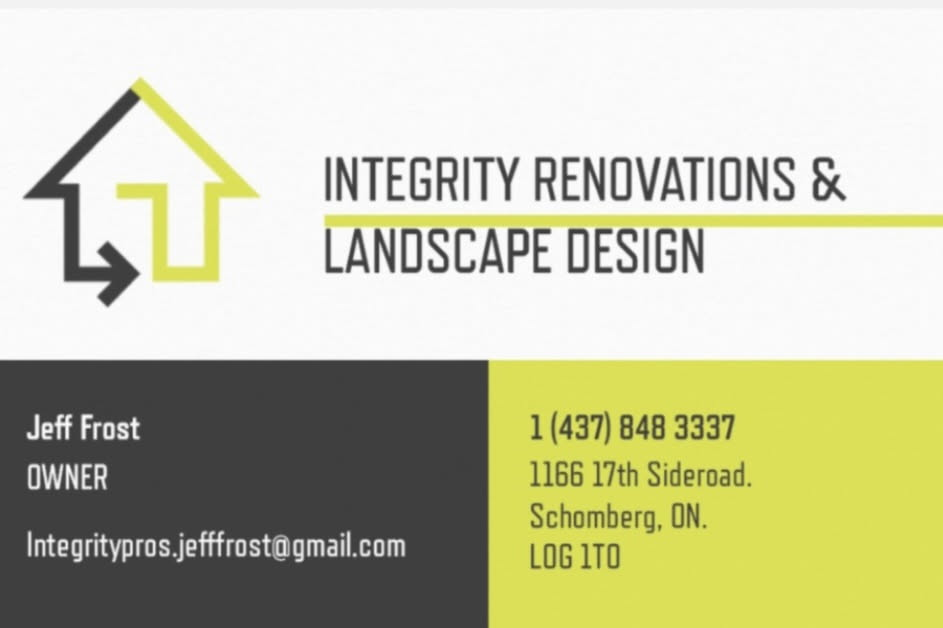
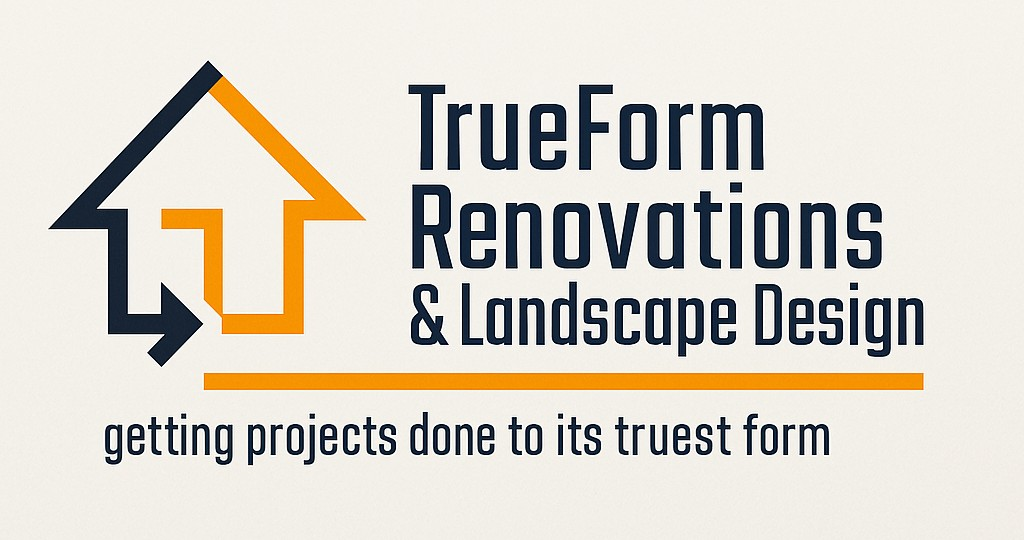
rebranding 1

diff --git a/css/styles_BAK.css b/css/styles_BAK.css
@@ -8,15 +8,13 @@
 body {
   font-family: 'Segoe UI', Tahoma, Geneva, Verdana, sans-serif;
   line-height: 1.6;
-  color: #2e2e33;
-  background: #ffffff;
+  color: #333;
+  background: #f9f9f9;
 }
 
 header {
-  background: #2e2e33;
-  color: #ffffff;
+  background: #fff;
   box-shadow: 0 2px 5px rgba(0,0,0,0.1);
-  padding: 1rem;
 }
 
 nav ul {
@@ -24,18 +22,17 @@ nav ul {
   list-style: none;
   justify-content: center;
   padding: 1rem 0;
-  background: #f29c1f;
 }
 
 nav ul li a {
   text-decoration: none;
-  color: #ffffff;
+  color: #333;
   margin: 0 1.2rem;
-  font-weight: 600;
+  font-weight: 500;
 }
 
 nav ul li a:hover {
-  color: #ffeac0;
+  color: #006633;
 }
 
 .banner-wrapper {
@@ -63,7 +60,7 @@ nav ul li a:hover {
 }
 
 .banner-controls button {
-  background: rgba(0, 0, 0, 0.5);
+  background: rgba(0,0,0,0.5);
   color: white;
   border: none;
   padding: 0.5rem 1rem;
@@ -82,34 +79,28 @@ main {
 }
 
 h1, h2 {
-  color: #f29c1f;
+  color: #1e432e;
   margin-bottom: 1rem;
 }
 
 .cta-buttons .button,
 .button {
-  background: #f29c1f;
-  color: #ffffff;
+  background: #1e432e;
+  color: #fff;
   padding: 0.75rem 1.5rem;
   text-decoration: none;
   display: inline-block;
   border-radius: 4px;
   font-weight: bold;
-  transition: background 0.3s;
-}
-
-.button:hover {
-  background: #d48806;
 }
 
 .button.secondary {
-  background: #ffffff;
-  color: #f29c1f;
-  border: 2px solid #f29c1f;
+  background: #e6e6e6;
+  color: #1e432e;
 }
 
 .link {
-  color: #f29c1f;
+  color: #006633;
   text-decoration: none;
   font-weight: 600;
 }
@@ -127,27 +118,26 @@ h1, h2 {
   text-align: center;
   font-weight: bold;
   text-decoration: none;
-  color: #2e2e33;
+  color: #1e432e;
   border-radius: 6px;
   transition: background 0.3s;
 }
 
 .service-card:hover {
-  background: #fff3e6;
+  background: #f0f9f4;
 }
 
 blockquote {
   font-style: italic;
-  background: #fff2db;
+  background: #f0f0f0;
   padding: 1rem;
-  border-left: 4px solid #f29c1f;
+  border-left: 4px solid #1e432e;
   margin: 1rem 0;
 }
 
 footer {
   text-align: center;
-  padding: 1.5rem;
-  background: #2e2e33;
-  color: #ffffff;
+  padding: 1rem;
+  background: #eaeaea;
   font-size: 0.9rem;
 }

diff --git a/index-Green.html b/index-Green.html
@@ -3,12 +3,11 @@
 <head>
   <meta charset="UTF-8" />
   <meta name="viewport" content="width=device-width, initial-scale=1.0" />
-  <meta name="description" content="Trueform Renovations & Landscape Design offers custom decks, landscaping, docks, sheds, and home renovations across Peterborough and cottage country with trusted, detail-focused craftsmanship." />
+  <meta name="description" content="Integrity Renovations & Landscape Design Inc. offers custom decks, landscaping, docks, sheds, and home renovations across Peterborough and cottage country with trusted, detail-focused craftsmanship." />
   <meta name="keywords" content="Peterborough contractor, decks Peterborough, cottage country renovations, landscaping Kawarthas, home renovations Ontario" />
-  <meta name="author" content="Trueform Renovations & Landscape Design" />
-  <title>Peterborough Custom Decks, Landscaping & Renovations | Trueform</title>
+  <meta name="author" content="Integrity Renovations & Landscape Design Inc." />
+  <title>Peterborough Custom Decks, Landscaping & Renovations | Integrity</title>
   <link rel="stylesheet" href="css/styles.css" />
-  <script>window.bannerPageName = "index";</script>
 </head>
 
 <body>
@@ -45,7 +44,7 @@
 
     <section class="about">
       <h2>Built with Integrity</h2>
-      <p>At Trueform Renovations & Landscape Design, we’re a family-run general contractor focused on quality, detail, and delivering the experience of a large firm with the trust of a hometown crew.</p>
+      <p>At Integrity Renovations & Landscape Design Inc., we’re a family-run general contractor focused on quality, detail, and delivering the experience of a large firm with the trust of a hometown crew.</p>
       <a href="about.html" class="link">Learn More →</a>
     </section>
 
@@ -85,7 +84,7 @@
   </main>
 
   <footer>
-    <p>&copy; 2025 Trueform Renovations & Landscape Design</p>
+    <p>&copy; 2025 Integrity Renovations & Landscape Design Inc. – The key is in the details.</p>
   </footer>
 
   <script src="js/hero-rotator.js"></script>

diff --git a/css/styles_Orange+Black.css b/css/styles_Orange+Black.css
@@ -1,0 +1,111 @@
+/* GLOBAL STYLING - TrueForm Renovations & Landscape Design */
+
+:root {
+  --primary-color: #f59e0b;
+  --secondary-color: #1f2937;
+  --light-color: #ffffff;
+  --text-color: #1f2937;
+  --font-family: 'Segoe UI', Roboto, sans-serif;
+}
+
+body {
+  font-family: var(--font-family);
+  margin: 0;
+  padding: 0;
+  background-color: var(--light-color);
+  color: var(--text-color);
+}
+
+header {
+  background-color: var(--secondary-color);
+  color: var(--light-color);
+  padding: 1.5rem 2rem;
+}
+
+header h1, header h2 {
+  margin: 0;
+  font-weight: 600;
+}
+
+nav {
+  background-color: var(--primary-color);
+  padding: 1rem;
+  text-align: center;
+}
+
+nav a {
+  color: var(--light-color);
+  text-decoration: none;
+  margin: 0 15px;
+  font-weight: bold;
+}
+
+nav a:hover {
+  text-decoration: underline;
+}
+
+.banner {
+  position: relative;
+  width: 100%;
+  height: 0;
+  padding-bottom: 56.25%; /* 16:9 aspect ratio */
+  overflow: hidden;
+}
+
+.banner img {
+  position: absolute;
+  width: 100%;
+  height: 100%;
+  object-fit: cover;
+}
+
+.banner-text {
+  position: absolute;
+  top: 50%;
+  left: 5%;
+  transform: translateY(-50%);
+  color: var(--light-color);
+  background-color: rgba(31, 41, 55, 0.8);
+  padding: 1rem 2rem;
+  max-width: 50%;
+  border-left: 5px solid var(--primary-color);
+  font-size: 1.75rem;
+  font-weight: 600;
+}
+
+section {
+  padding: 2rem;
+  max-width: 1200px;
+  margin: auto;
+}
+
+section h2 {
+  color: var(--primary-color);
+  font-size: 2rem;
+  margin-bottom: 1rem;
+}
+
+button,
+.cta {
+  background-color: var(--primary-color);
+  color: var(--light-color);
+  border: none;
+  padding: 0.75rem 1.5rem;
+  font-size: 1rem;
+  cursor: pointer;
+  margin-top: 1rem;
+  border-radius: 5px;
+}
+
+button:hover,
+.cta:hover {
+  background-color: #d97706;
+}
+
+footer {
+  background-color: var(--secondary-color);
+  color: var(--light-color);
+  padding: 2rem;
+  text-align: center;
+  font-size: 0.9rem;
+}

diff --git a/decks.html b/decks.html
@@ -77,9 +77,10 @@
   </main>
 
   <footer>
-    <p>&copy; 2025 Integrity Renovations & Landscape Design Inc. – The key is in the details.</p>
+    <p>&copy; 2025 Trueform Renovations & Landscape Design</p>
   </footer>
-
+  
+  <script>window.bannerPageName = "decks";</script> <!-- or docks, sheds, interiors -->
   <script src="js/hero-rotator.js"></script>
 </body>
 </html>

diff --git a/sheds.html b/sheds.html
@@ -76,9 +76,10 @@
   </main>
 
   <footer>
-    <p>&copy; 2025 Integrity Renovations & Landscape Design Inc. – The key is in the details.</p>
+    <p>&copy; 2025 Trueform Renovations & Landscape Design</p>
   </footer>
-
+  
+  <script>window.bannerPageName = "decks";</script> <!-- or docks, sheds, interiors -->
   <script src="js/hero-rotator.js"></script>
 </body>
 </html>

diff --git a/docks.html b/docks.html
@@ -76,9 +76,10 @@
   </main>
 
   <footer>
-    <p>&copy; 2025 Integrity Renovations & Landscape Design Inc. – The key is in the details.</p>
+    <p>&copy; 2025 Trueform Renovations & Landscape Design</p>
   </footer>
 
+  <script>window.bannerPageName = "docks";</script> <!-- or docks, sheds, interiors -->
   <script src="js/hero-rotator.js"></script>
 </body>
 </html>

diff --git a/interiors.html b/interiors.html
@@ -75,7 +75,7 @@
   </main>
 
   <footer>
-    <p>&copy; 2025 Integrity Renovations & Landscape Design Inc. – The key is in the details.</p>
+    <p>&copy; 2025 Trueform Renovations & Landscape Design</p>
   </footer>
 
   <script src="js/hero-rotator.js"></script>

diff --git a/landscaping.html b/landscaping.html
@@ -87,7 +87,7 @@
   </main>
 
   <footer>
-    <p>&copy; 2025 Integrity Renovations & Landscape Design Inc. – The key is in the details.</p>
+    <p>&copy; 2025 Trueform Renovations & Landscape Design</p>
   </footer>
 
   <script src="js/hero-rotator.js"></script>

diff --git a/contact.html b/contact.html
@@ -79,7 +79,7 @@
   </main>
 
   <footer>
-    <p>&copy; 2025 Integrity Renovations & Landscape Design Inc. – The key is in the details.</p>
+    <p>&copy; 2025 Trueform Renovations & Landscape Design</p>
   </footer>
 </body>
 </html>

diff --git a/thank-you.html b/thank-you.html
@@ -34,7 +34,7 @@
   </main>
 
   <footer>
-    <p>&copy; 2025 Integrity Renovations & Landscape Design Inc. – The key is in the details.</p>
+    <p>&copy; 2025 Trueform Renovations & Landscape Design</p>
   </footer>
 </body>
 </html>
